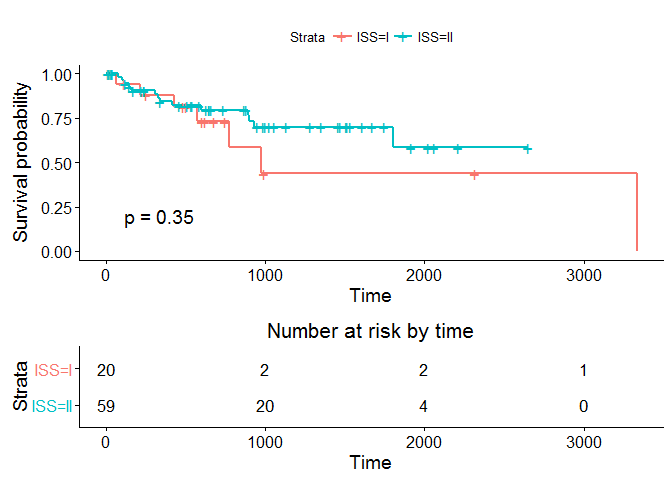
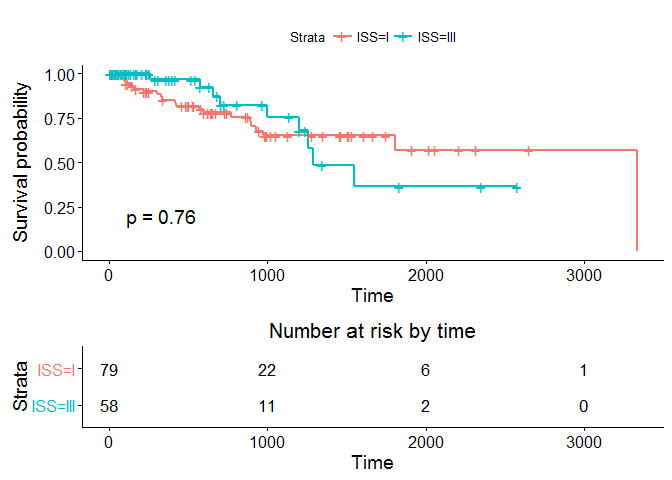
Some more changes

diff --git a/Final.md b/Final.md
@@ -422,21 +422,10 @@ print(fit_thp)
 Values 'I' and 'II' have been coerced to a single value - 'I'.
 
 ``` r
+surv_data$ISS[surv_data$ISS=="II"] <- "I"
 iss <- na.omit(select(surv_data, ISS, TD, cenin_dead))
-iss[iss=='II',] <- "I"
-iss$ISS <- factor(iss$ISS)
-iss$TD <- as.numeric(iss$TD)
-```
 
-    ## Warning: NAs introduced by coercion
-
-``` r
-iss$cenin_dead <- as.numeric(iss$cenin_dead)
-```
-
-    ## Warning: NAs introduced by coercion
-
-``` r
+iss$ISS <- as.factor(iss$ISS)
 fit_iss <- survfit(Surv(TD,cenin_dead)~ISS,data=iss)
 ggsurvplot(fit_iss,risk.table = T, risk.table.height = 0.4,pval = T)
 ```
@@ -916,20 +905,10 @@ Values 'II' and 'III' have been coerced to a single value - 'II'.
 
 ``` r
 iss <- na.omit(select(rlp_data, ISS, TD_R, relapse))
-iss[iss=='III',] <- "II"
+iss[iss=='II',] <- "I"
 iss$ISS <- factor(iss$ISS)
 iss$TD_R <- as.numeric(iss$TD_R)
-```
-
-    ## Warning: NAs introduced by coercion
-
-``` r
 iss$relapse <- as.numeric(iss$relapse)
-```
-
-    ## Warning: NAs introduced by coercion
-
-``` r
 fit_iss <- survfit(Surv(TD_R,relapse)~ISS,data=iss)
 ggsurvplot(fit_iss,risk.table = T, risk.table.height = 0.4,pval = T)
 ```
